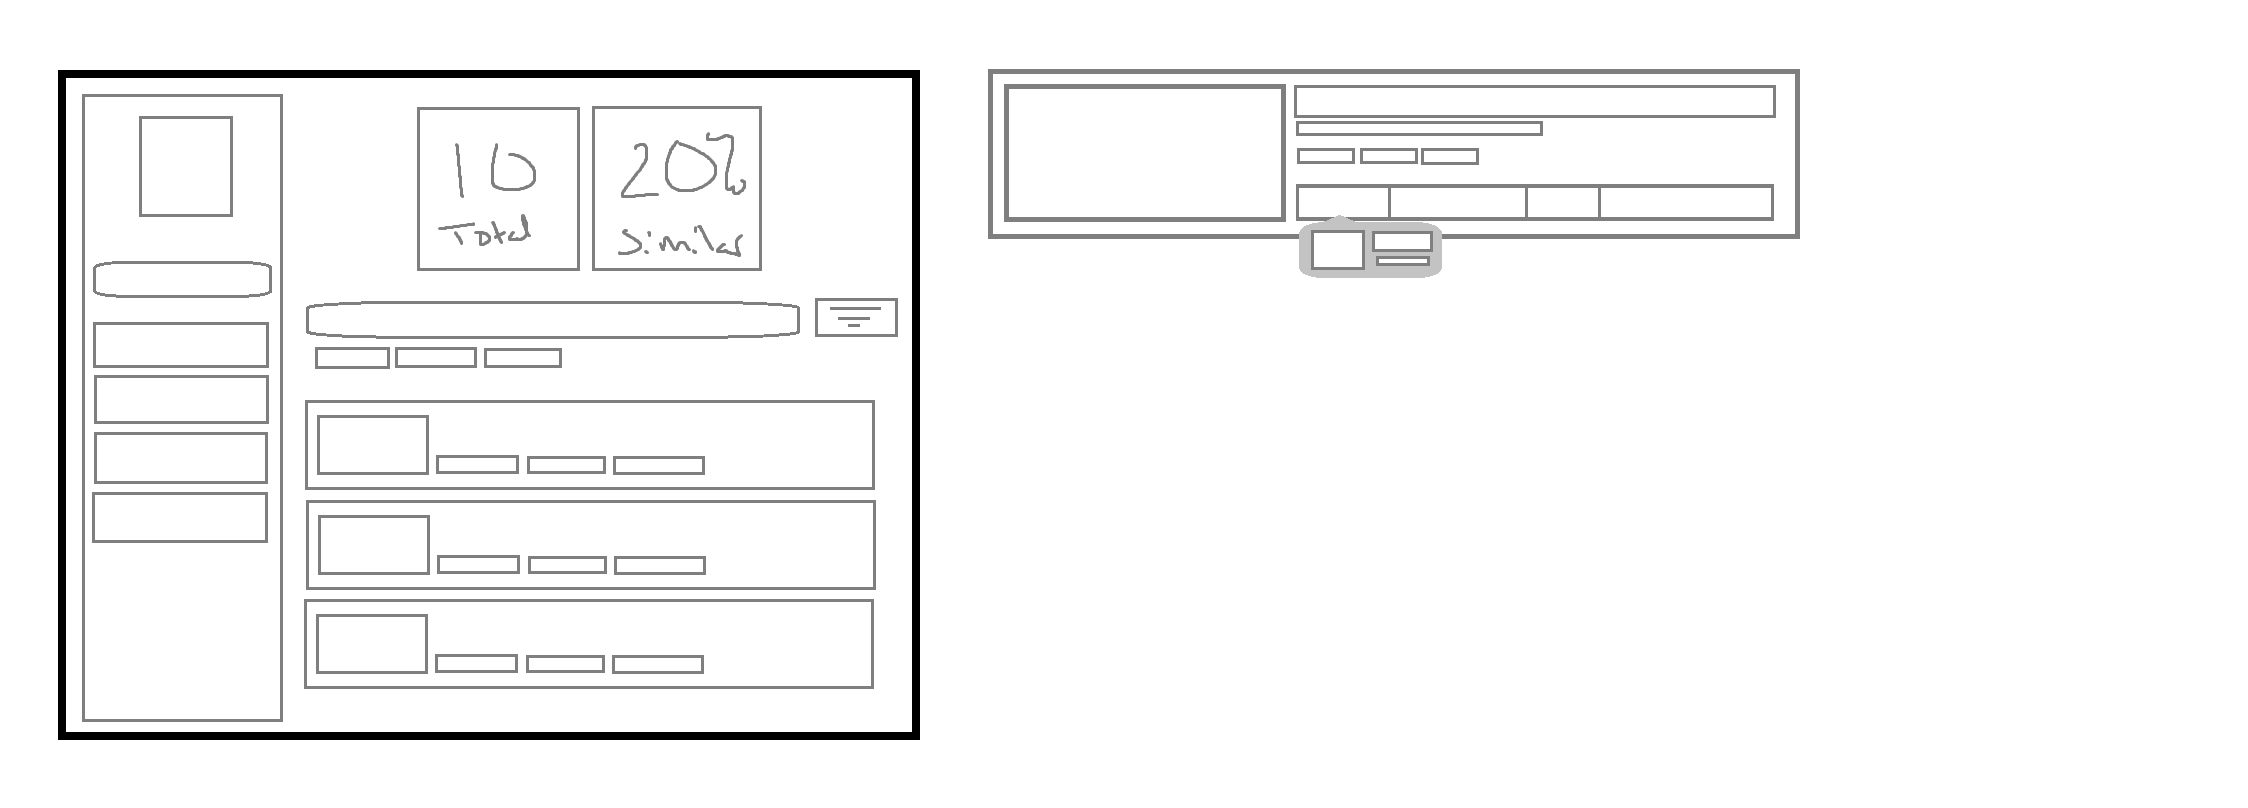
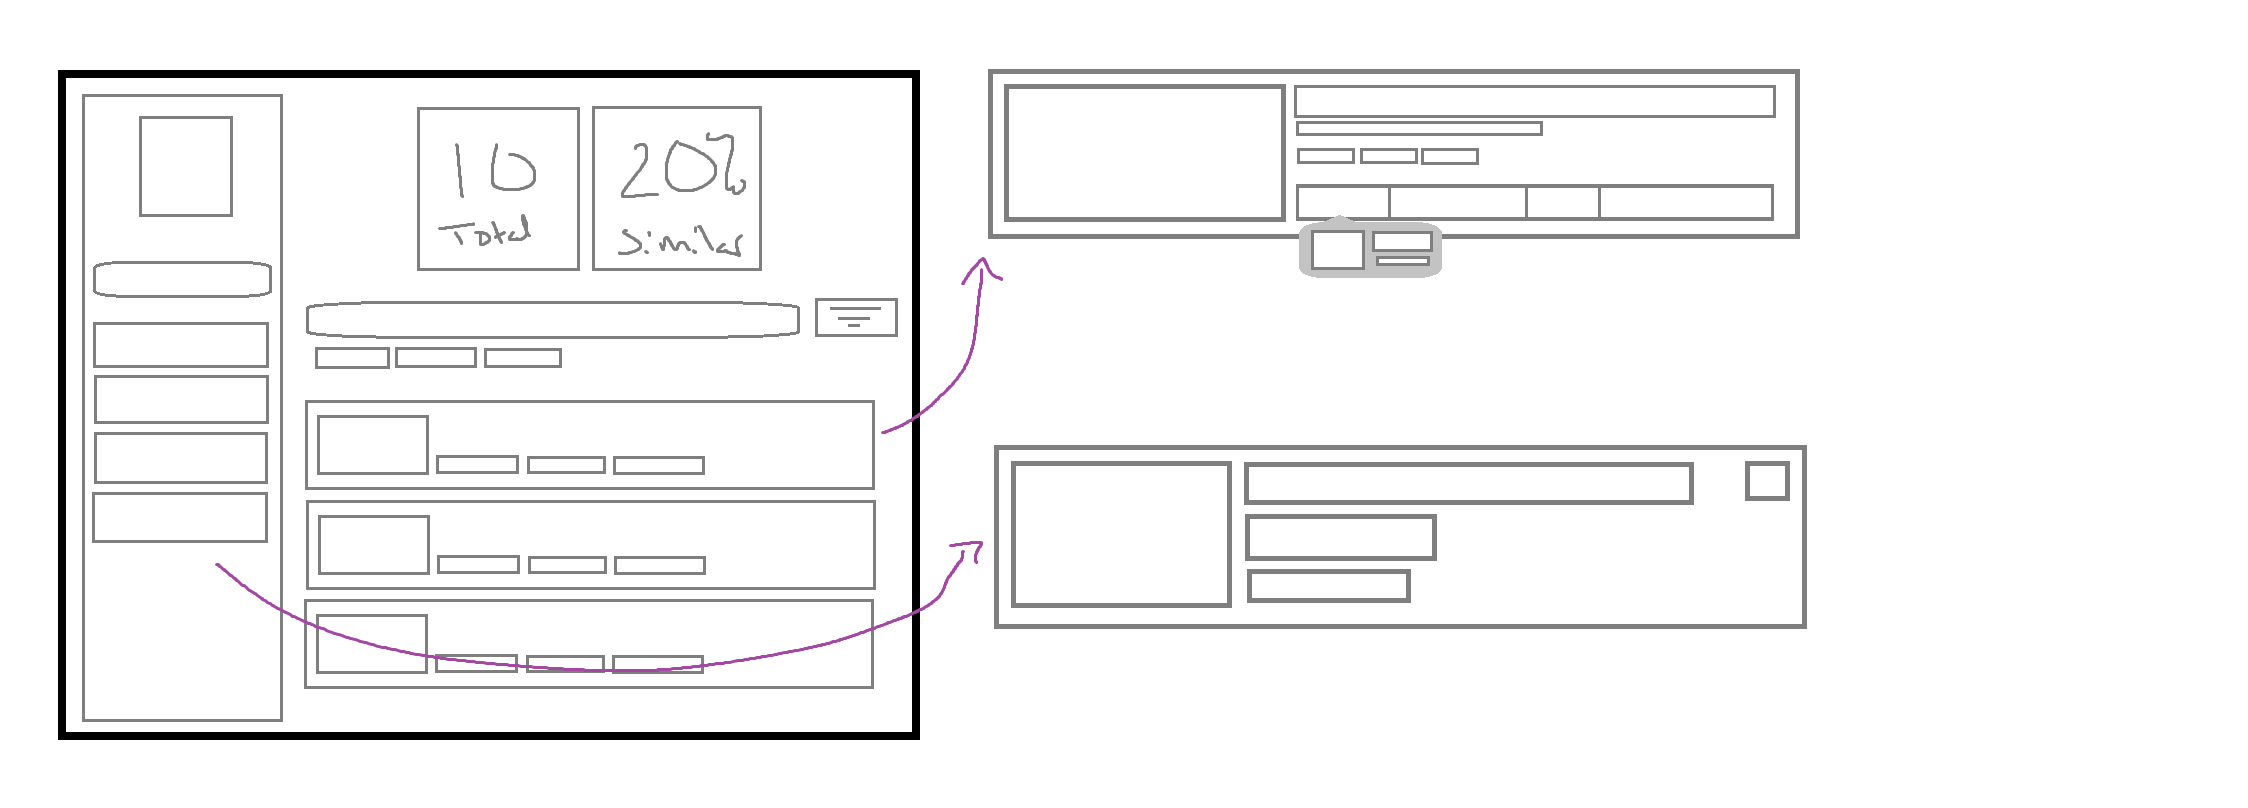
Added launch.json for runnig flask and react-scripts simultaneously

Changed region(s): [[0.4359, 0.526, 0.8096, 0.8045], [0.1868, 0.8045, 0.3425, 0.8354]]

diff --git a/src/App.tsx b/src/App.tsx
@@ -3,8 +3,7 @@ import { IGameAggregateData, ISessionData, IUserData } from './types';
 import { api_getSession, api_searchUser, api_updateSession } from './api';
 
 
-const colorList = ["lightgreen", "lightblue", "lightorange", "lightgray", "lightbrown"]
-let colorListI = 0; 
+const colorList = ["lightgreen", "lightblue", "lightcoral", "lightyellow", "lightseagreen"]
 
 function App() {
   const [sessionData, setSessionData] = React.useState<ISessionData>({} as ISessionData)
@@ -27,6 +26,7 @@ function App() {
 
     const aggGameDataDict:{[key:number]:IGameAggregateData} = {}
     const tmpColorDict = Object.assign(userColorDict)
+    let colorListI = 0; 
     tmpSessionData.users.forEach(user => {
       user.games.forEach(game => {
           if(!(game.appid in aggGameDataDict)) {
@@ -129,16 +129,16 @@ function App() {
       </aside>
 
       {/* maincontent */}
-      <main style={{border: 'solid', width: '100%', display: 'grid'}}>
+      <main style={{border: 'solid', width: '100%', display: 'grid', padding: '8px'}}>
 
         {/* banner */}
-        <section style={{display: 'grid', gridTemplateColumns: '15vw 15vw', gridTemplateRows: '15vw', justifyContent: 'space-around'}}>
+        <section style={{display: 'grid', gridTemplateColumns: '15vw 15vw', gridTemplateRows: '15vw', justifyContent: 'space-around', padding: '8px'}}>
           <StatCard amount={gameAggData.length} amountType='number' text='Total Unique Games'/>
           <StatCard amount={gameAggData.reduce((total, cur) => total + cur.diversity, 0) / gameAggData.length * 100} amountType='percentage' text='Similar Games'/>
         </section>
 
         {/* search section */}
-        <section style={{display: 'grid', gridTemplateColumns: '1fr auto'}}>
+        <section style={{display: 'grid', gridTemplateColumns: '1fr auto', gridTemplateRows: 'auto auto', gap: '8px'}}>
           <input onKeyDown={(ev) => {
             if(ev.key == 'Enter' && ev.currentTarget.value.trim() != ""){
               handleFilterAdd(ev.currentTarget.value.trim())
@@ -147,7 +147,9 @@ function App() {
           }} />
           <button>Filters</button>
           {/* tag section */}
-          {searchFilters.length > 0 && <div>{searchFilters.map((filter, filterI) => <TextTag text={filter} onRemove={() => handleFilterRemove(filterI)} />)}</div>}
+          {searchFilters.length > 0 && <div style={{display: 'flex'}}>
+            {searchFilters.map((filter, filterI) => <TextTag text={filter} onRemove={() => handleFilterRemove(filterI)} />)}
+          </div>}
         </section>
 
         {/* game list */}
@@ -180,7 +182,7 @@ const StatCard = ({amount, amountType, text}:{amount:number, amountType:'number'
 }
 
 const TextTag = ({text, onRemove}:{text:string, onRemove?:()=>void}) => {
-  return <div>
+  return <div style={{display: 'grid', gridTemplateColumns: "1fr auto"}}>
     <p>{text}</p>
     {
       onRemove && <button onClick={onRemove}>x</button>
@@ -211,9 +213,25 @@ const GameListItem = ({gameData, userColorDict}:{gameData:IGameAggregateData, us
 
 const GamePlaytimeDisplay = ({userData, userColorDict, style={}}:{style?:React.CSSProperties,userData:IGameAggregateData['users'], userColorDict:{[key:string]:string}}) => {
   const totalHoursPlayed = userData.reduce((acc, cur) => acc + cur.playtime_forever, 0)
+  
   return <div style={{border: "solid", display: 'grid', gridTemplateColumns: userData.map(user => `${user.playtime_forever / totalHoursPlayed}fr`).join(' '), ...style}}>{
     userData.map(user => <div style={{backgroundColor: userColorDict[user.steamid]}} />)
   }</div>
+}
+
+const PlaytimeTooltip = ({userData, targetColor}:{userData:IGameAggregateData['users'][0], targetColor:string}) => {
+  const gridArea = `
+    'i i i n n n n'
+    'i i i p p p p'
+    'i i i t t t t'
+    'i i i l l l l'
+  `
+  return <div style={{display: 'grid', gridTemplateAreas: gridArea, backgroundColor: targetColor}}> 
+    <img style={{gridArea: 'i'}} src={userData.profileurl} />
+    <p style={{gridArea: 'n'}}>{userData.name}</p>
+    <p style={{gridArea: 't'}}>{userData.playtime_forever}</p>
+    <p style={{gridArea: 'l'}}>{userData.rtime_last_played}</p>
+  </div>
 }
 
 /*
